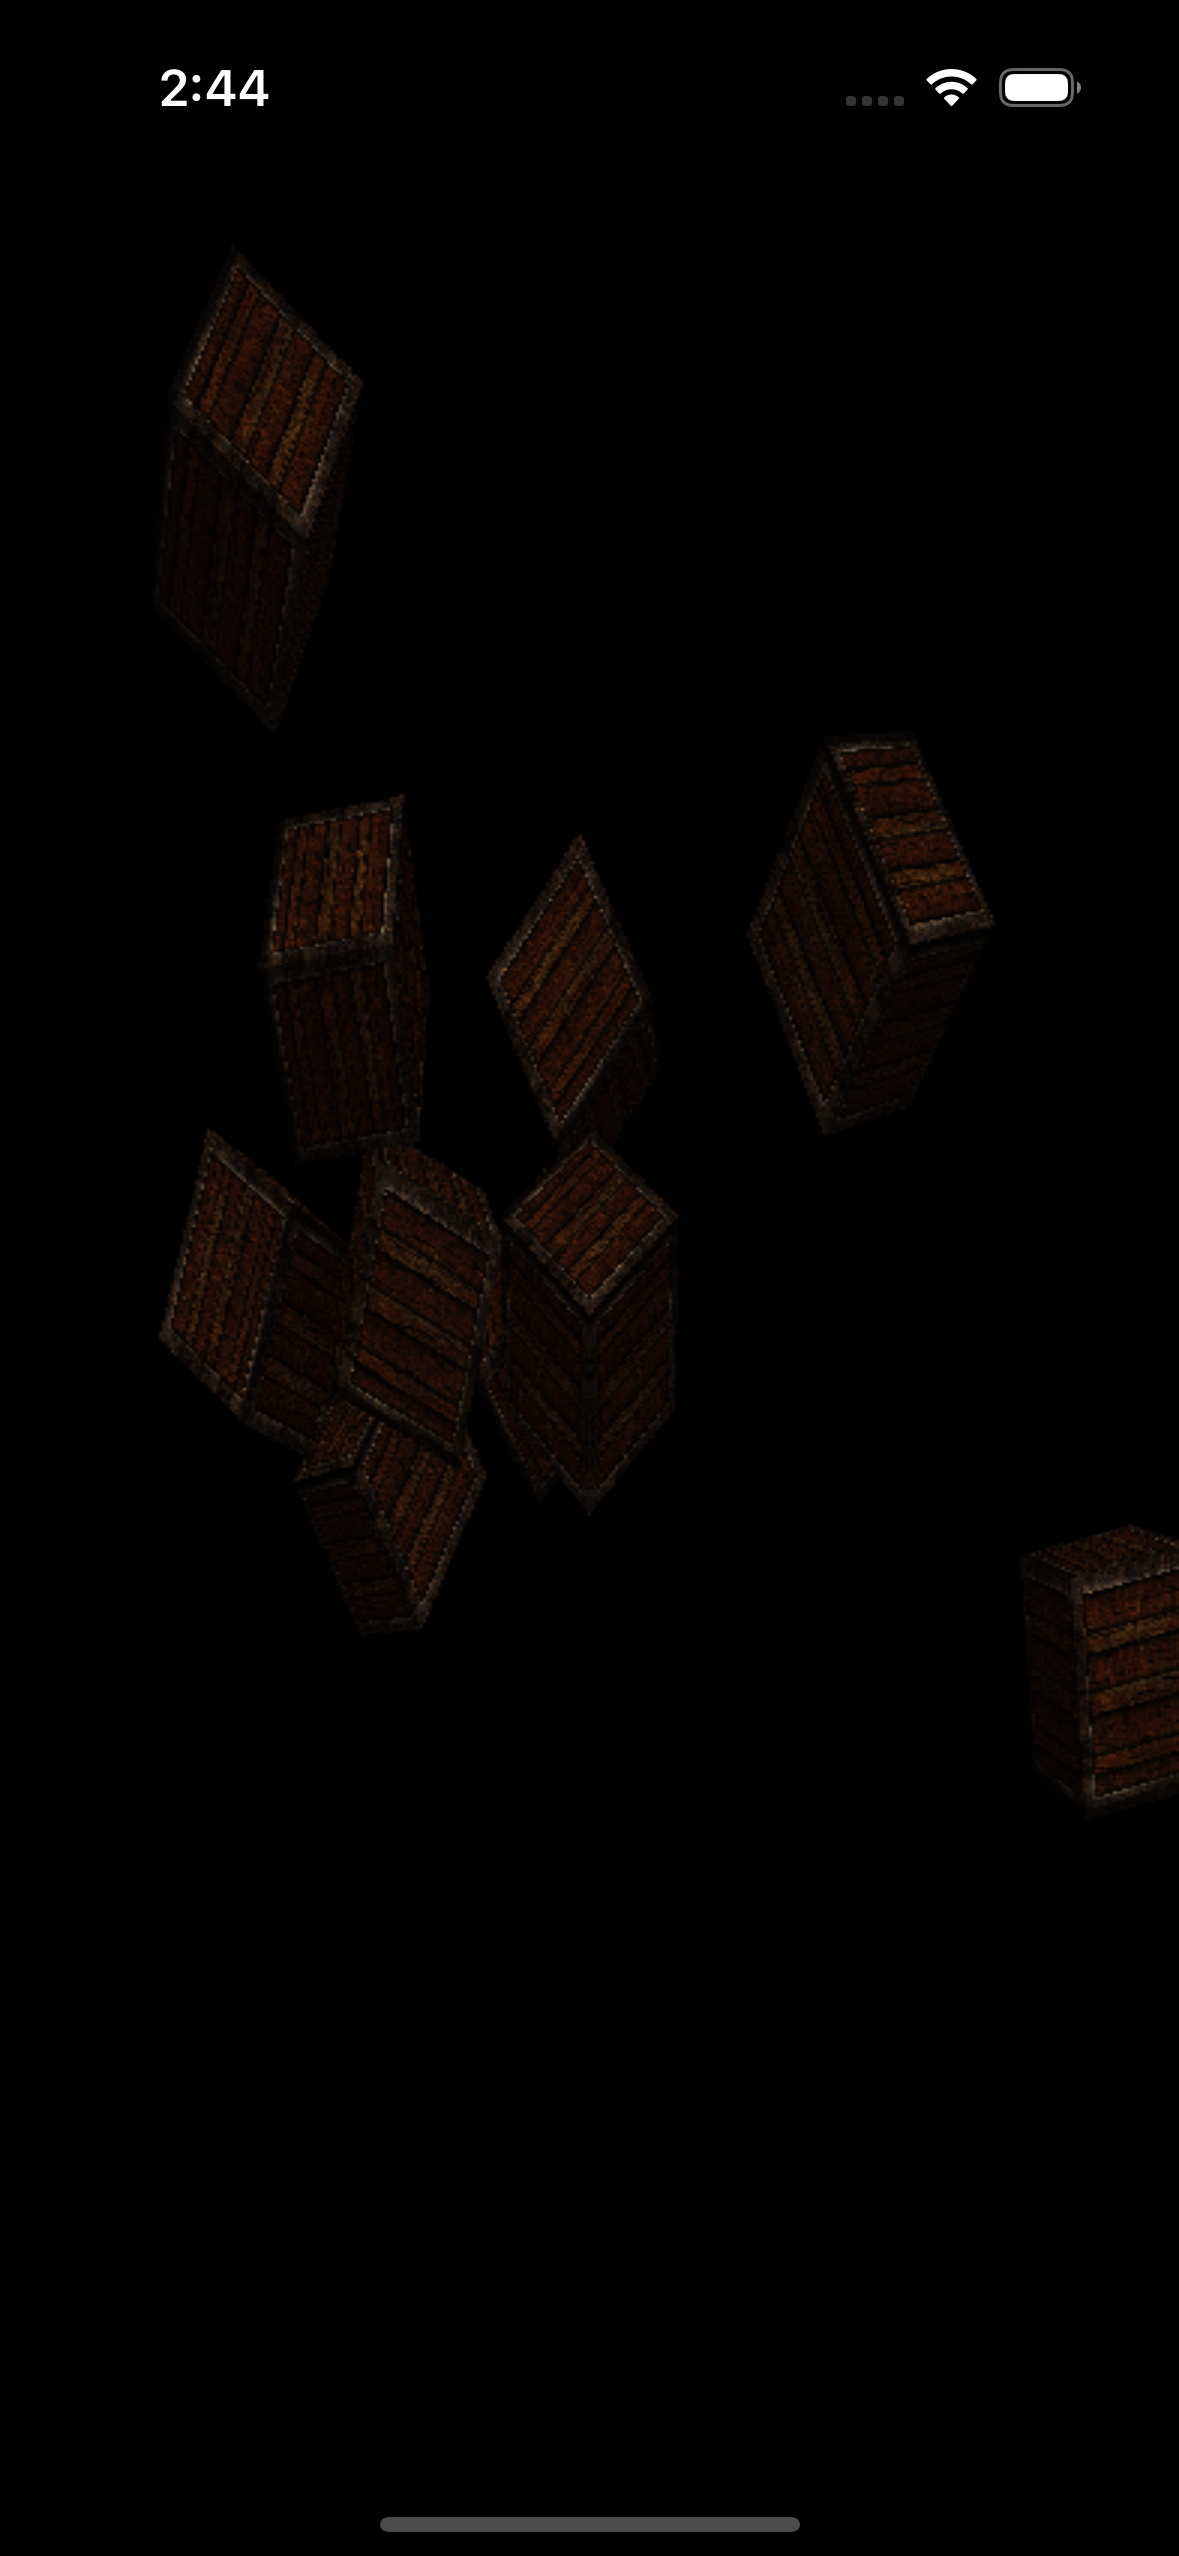
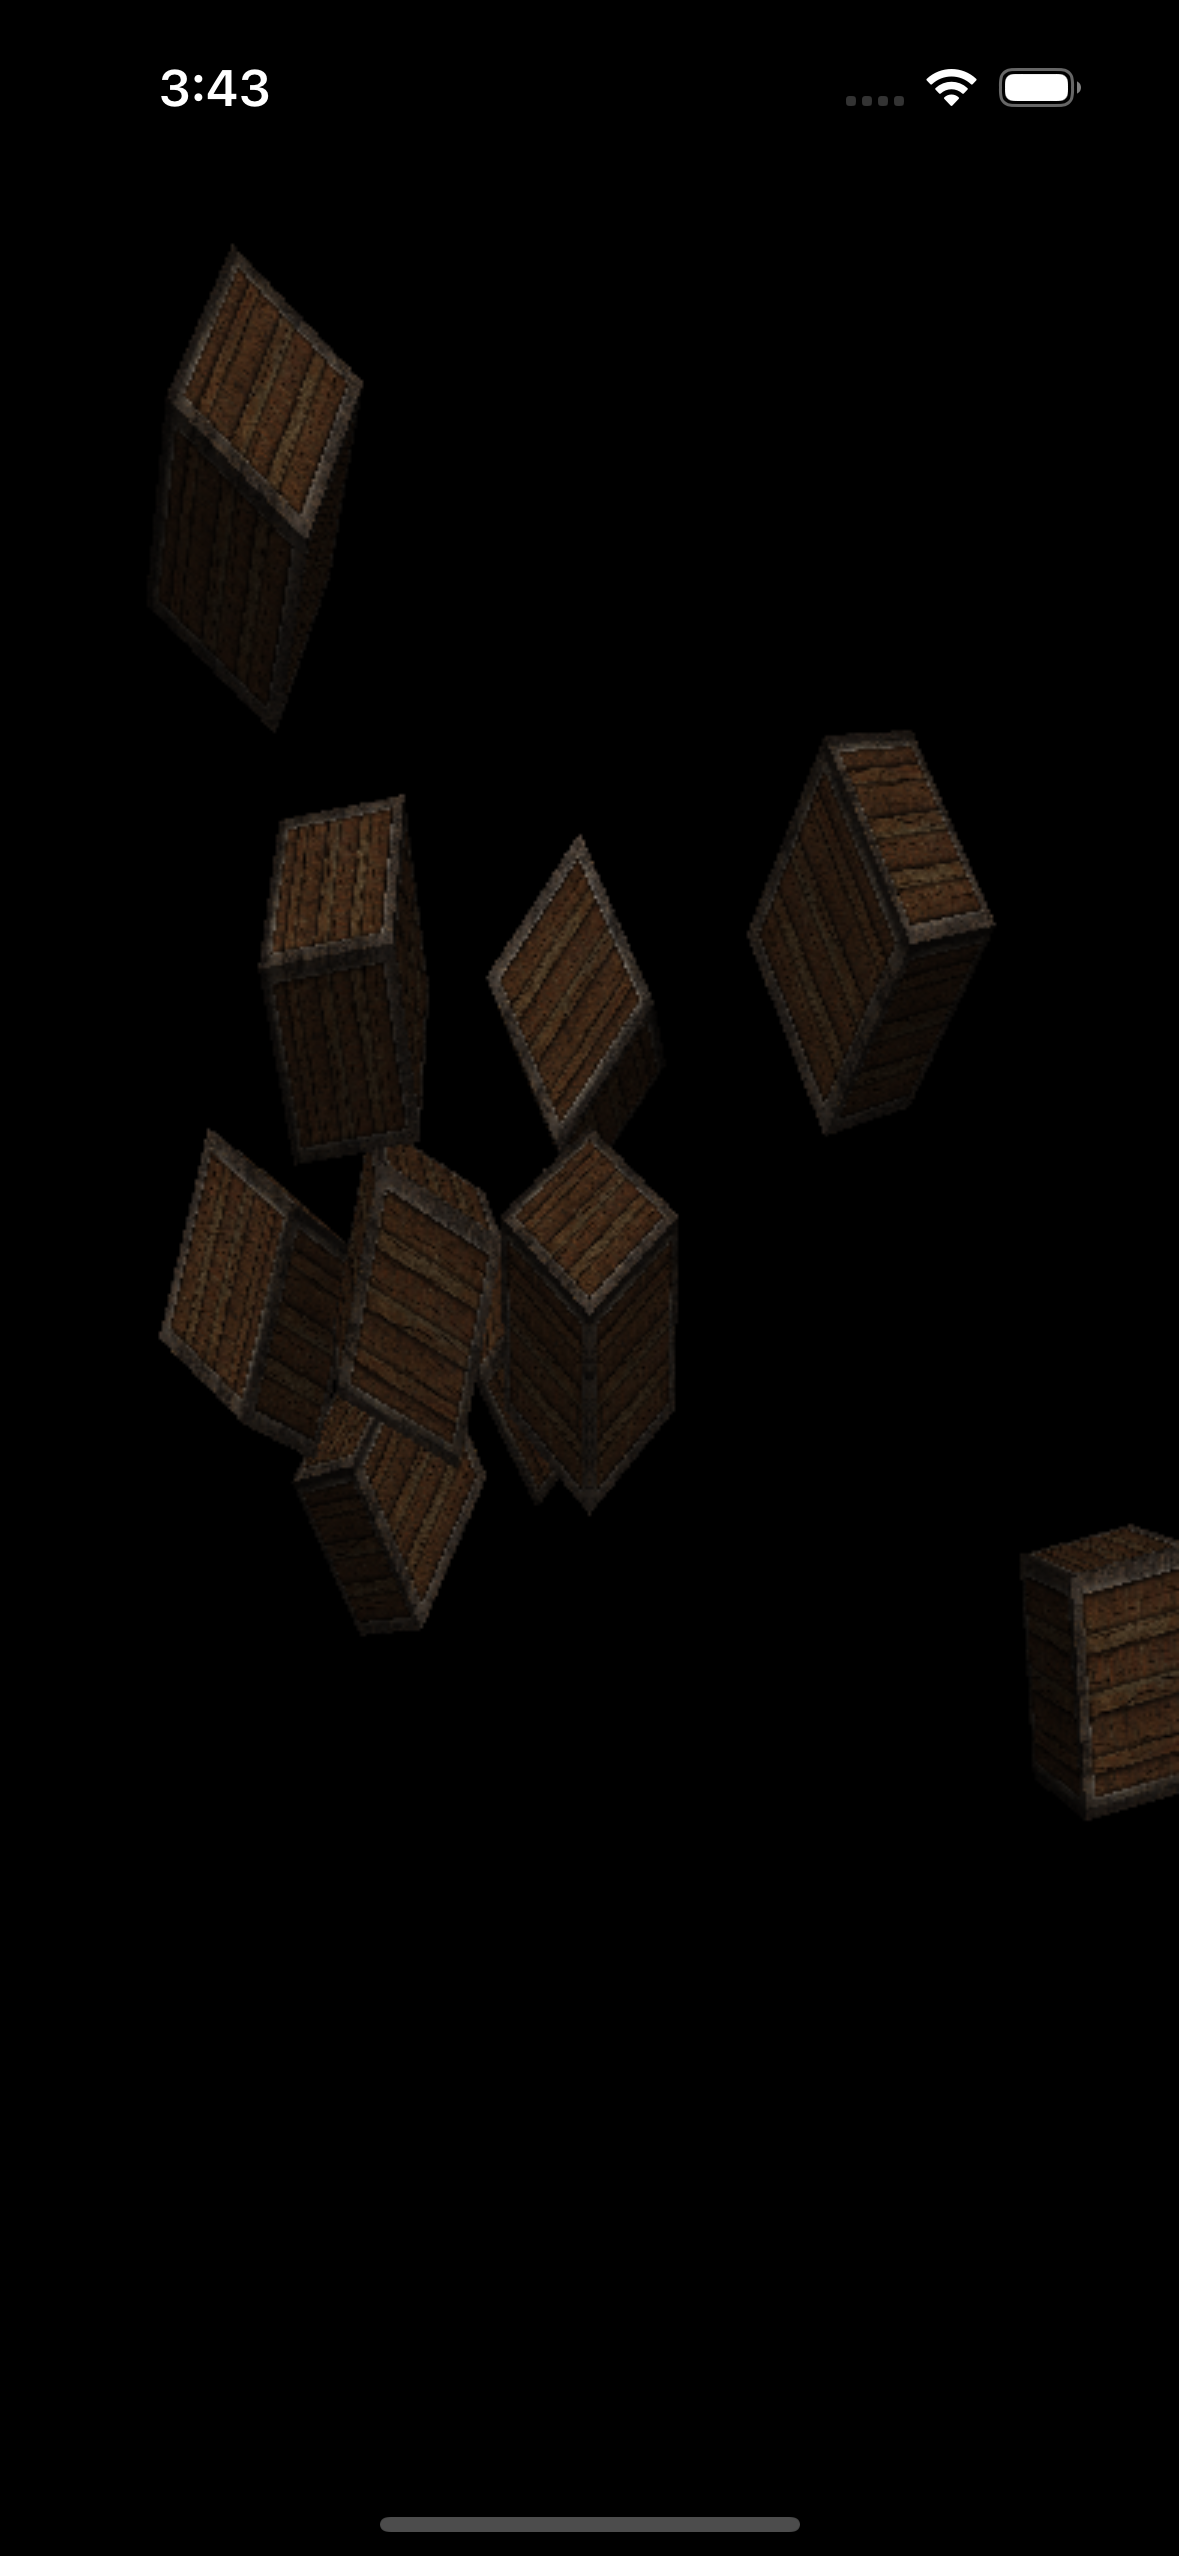
add Light casters

diff --git a/OpenGL-Tutorial-Metal/LightingCasters/LightingCasters/ViewController/RendererViewController+RenderCube.swift b/OpenGL-Tutorial-Metal/LightingCasters/LightingCasters/ViewController/RendererViewController+RenderCube.swift
@@ -13,9 +13,7 @@ extension RendererViewController {
     // MARK: - renderObjectCube
     public func renderObjectCube(renderEncoder: inout MTLRenderCommandEncoder,
                                  indexBuffer: MTLBuffer,
-                                 rotation: simd_float3,
-                                 lightPosition: simd_float3,
-                                 cameraPosition: simd_float3) {
+                                 camera: inout Camera) {
         let projectionMatrix = simd_float4x4.perspective(
             fov: Float(45).toRadians(),
             aspectRatio: 1.0,
@@ -28,21 +26,26 @@ extension RendererViewController {
             var modelMatrix = simd_float4x4.identity()
             
             modelMatrix.translate(position: RendererResources.cubePositions[i])
-            modelMatrix.rotate(angle: Float(20*i), axis: simd_float3(1.0, 0.3, 0.5))
+            modelMatrix.rotate(angle: Float(20 * i), axis: simd_float3(1.0, 0.3, 0.5))
             modelMatrix.scales(scale: simd_float3(1.5, 1.5, 1.5))
             
             var inverseTranspose = modelMatrix.conversion_3x3().inverse.transpose
             
             var uniform = LightUniforms(
-                direction: simd_float3(-0.2, -1.0, -0.3),
-                cameraPosition: cameraPosition,
-                ambient: simd_float3(0.4, 0.4, 0.4),
-                diffuse: simd_float3(1.0, 1.0, 1.0),
-                specular: simd_float3(2.0, 2.0, 2.0)
+                position: simd_float3(1.2, 1.0, 2.0),
+                direction: camera.up,
+                cutOff: simd_float3(Float(12.5).toRadians(), 0.0, 0.0),
+                outerCutOff: simd_float3(Float(17.5).toRadians(), 0.0, 0.0),
+                ambient: simd_float3(0.1, 0.1, 0.1),
+                diffuse: simd_float3(0.8, 0.8, 0.8),
+                specular: simd_float3(1.0, 1.0, 1.0),
+                constants: simd_float3(1.0, 0.0, 0.0),
+                linears: simd_float3(0.09, 0.0, 0.0),
+                quadratics: simd_float3(0.032, 0.0, 0.0)
             )
             
             let viewMatrix = simd_float4x4.lookAt(
-                eyePosition: cameraPosition,
+                eyePosition: camera.position,
                 targetPosition: simd_float3(0.0, 0.0, 0.0),
                 upVec: simd_float3(0.0, 1.0, 0.0)
             )
@@ -54,9 +57,10 @@ extension RendererViewController {
             )
             
             // Fragment
-            renderEncoder.setFragmentBytes(&uniform, length: MemoryLayout<LightUniforms>.size, index: 1)
-            renderEncoder.setFragmentBytes(&transformUniforms, length: MemoryLayout<TransformUniforms>.size, index: 2)
-            
+            renderEncoder.setFragmentBytes(&transformUniforms, length: MemoryLayout<TransformUniforms>.size, index: 1)
+            renderEncoder.setFragmentBytes(&uniform, length: MemoryLayout<LightUniforms>.size, index: 2)
+            renderEncoder.setFragmentBytes(&camera.position, length: MemoryLayout<simd_float3>.size, index: 3)
+
             // Vertex
             renderEncoder.setVertexBytes(&transformUniforms, length: MemoryLayout<TransformUniforms>.size, index: 1)
             renderEncoder.setVertexBytes(&inverseTranspose, length: MemoryLayout<simd_float3x3>.size, index: 2)
@@ -76,8 +80,7 @@ extension RendererViewController {
     // MARK: - renderLightSourceCube
     public func renderLightSourceCube(renderEncoder: inout MTLRenderCommandEncoder,
                                       indexBuffer: MTLBuffer,
-                                      lightPosition: simd_float3,
-                                      cameraPosition: simd_float3) {
+                                      camera: inout Camera) {
         let projectionMatrix = simd_float4x4.perspective(
             fov: Float(30).toRadians(),
             aspectRatio: 1.0,
@@ -85,14 +88,14 @@ extension RendererViewController {
             farPlane: 100.0
         )
         var lightSourceCubeMatrix = simd_float4x4.identity()
-        lightSourceCubeMatrix.translate(position: lightPosition)
+        lightSourceCubeMatrix.translate(position: simd_float3(1.2, 1.0, 2.0))
         lightSourceCubeMatrix.scales(scale: simd_float3(0.3, 0.3, 0.3))
         
         var lightColor = simd_float3(1.0, 1.0, 1.0);
         var inverseTranspose = lightSourceCubeMatrix.conversion_3x3().inverse.transpose
         
         let viewMatrix = simd_float4x4.lookAt(
-            eyePosition: cameraPosition,
+            eyePosition: camera.position,
             targetPosition: simd_float3(0.0, 0.0, 0.0),
             upVec: simd_float3(0.0, 1.0, 0.0)
         )

diff --git a/OpenGL-Tutorial-Metal/LightingCasters/LightingCasters/ViewController/RendererViewController.swift b/OpenGL-Tutorial-Metal/LightingCasters/LightingCasters/ViewController/RendererViewController.swift
@@ -25,9 +25,7 @@ class RendererViewController: UIViewController {
     private var depthStencilState: MTLDepthStencilState!
     private var timer: CADisplayLink!
     
-    private var rotation = simd_float3(0, 0, 0)
-    private var lightPosition = simd_float3(-1.2, 1.0, 1.0)
-    private var cameraPosition = simd_float3(10.0, 10.0, 10.0)
+    private var camera = Camera(position: simd_float3(10.0, 10.0, 10.0))
     
     private var diffuseTexture: MTLTexture!
     private var specularTexture: MTLTexture!
@@ -92,13 +90,13 @@ class RendererViewController: UIViewController {
         do {
             diffuseTexture = try loadTexture("container2")
         } catch {
-            print("텍스처 로드 실패: \(error)")
+            print("container2 텍스처 로드 실패: \(error)")
         }
         
         do {
-            specularTexture = try loadTexture("container2")
+            specularTexture = try loadTexture("container2_specular")
         } catch {
-            print("텍스처 로드 실패: \(error)")
+            print("container2_specular 텍스처 로드 실패: \(error)")
         }
         
         samplerState = setupSampler()
@@ -194,16 +192,13 @@ class RendererViewController: UIViewController {
         
         renderObjectCube(renderEncoder: &renderEncoder,
                          indexBuffer: indexBuffer,
-                         rotation: rotation,
-                         lightPosition: lightPosition,
-                         cameraPosition: cameraPosition)
+                         camera: &camera)
         
-//        renderEncoder.setRenderPipelineState(subPipelineState)
-//        
-//        renderLightSourceCube(renderEncoder: &renderEncoder,
-//                              indexBuffer: indexBuffer,
-//                              lightPosition: lightPosition,
-//                              cameraPosition: cameraPosition)
+        renderEncoder.setRenderPipelineState(subPipelineState)
+        
+        renderLightSourceCube(renderEncoder: &renderEncoder,
+                              indexBuffer: indexBuffer,
+                              camera: &camera)
         
         renderEncoder.endEncoding()
         commandBuffer.present(drawable)
@@ -214,7 +209,6 @@ class RendererViewController: UIViewController {
     // MARK: - gameLoop
     @objc private func gameLoop() {
         autoreleasepool {
-            rotation += simd_float3(Float(1).toRadians(), 0.0, 0.0)
             render()
         }
     } // gameLoop

diff --git a/OpenGL-Tutorial-Metal/LightingCasters/LightingCasters/ViewController/RendererViewController+Textures.swift b/OpenGL-Tutorial-Metal/LightingCasters/LightingCasters/ViewController/RendererViewController+Textures.swift
@@ -5,7 +5,7 @@
 //  Created by KyungHeon Lee on 2025/02/15.
 //
 
-import Foundation
+import UIKit
 import MetalKit
 import simd
 
@@ -27,13 +27,44 @@ extension RendererViewController {
     } // setupSampler
     
     // MARK: - loadTexture
-    public func loadTexture(_ name: String) throws -> MTLTexture {
-        let textureLoader = MTKTextureLoader(device: device)
-        
-        do {
-            return try textureLoader.newTexture(name: name, scaleFactor: 1.0, bundle: nil, options: nil)
-        } catch {
-            fatalError("텍스처 로드 실패: \(error)")
+    public func loadTexture(_ name: String) throws -> MTLTexture? {
+        guard let image = UIImage(named: name)?.cgImage else {
+            print("\(name) 불러올 수 없음")
+            return nil
         }
+        
+        let width = image.width
+        let height = image.height
+        let textureDescriptor = MTLTextureDescriptor()
+        textureDescriptor.pixelFormat = .rgba8Unorm
+        textureDescriptor.width = width
+        textureDescriptor.height = height
+        textureDescriptor.usage = [.shaderRead]
+        
+        guard let texture = device.makeTexture(descriptor: textureDescriptor) else {
+            print("텍스처 생성 실패")
+            return nil
+        }
+        
+        let bytesPerPixel = 4
+        let bytesPerRow = bytesPerPixel * width
+        let imageData = UnsafeMutablePointer<UInt8>.allocate(capacity: bytesPerRow * height)
+        defer { imageData.deallocate() }
+        
+        let colorSpace = CGColorSpaceCreateDeviceRGB()
+        let context = CGContext(data: imageData,
+                                width: width,
+                                height: height,
+                                bitsPerComponent: 8,
+                                bytesPerRow: bytesPerRow,
+                                space: colorSpace,
+                                bitmapInfo: CGImageAlphaInfo.premultipliedLast.rawValue)
+        
+        context?.draw(image, in: CGRect(x: 0, y: 0, width: width, height: height))
+        
+        let region = MTLRegionMake2D(0, 0, width, height)
+        texture.replace(region: region, mipmapLevel: 0, withBytes: imageData, bytesPerRow: bytesPerRow)
+        
+        return texture
     } // loadTexture
 }

diff --git a/OpenGL-Tutorial-Metal/LightingCasters/LightingCasters/Model/Camera.swift b/OpenGL-Tutorial-Metal/LightingCasters/LightingCasters/Model/Camera.swift
@@ -1,0 +1,55 @@
+//
+//  Camera.swift
+//  LightingCasters
+//
+//  Created by KyungHeon Lee on 2025/02/17.
+//
+
+import Foundation
+import simd
+
+// MARK: - Camera
+struct Camera {
+    var position: simd_float3
+    var front: simd_float3
+    var up: simd_float3
+    var right: simd_float3
+    var worldUp: simd_float3
+    var yaw: Float
+    var pitch: Float
+
+    let movementSpeed: Float = 2.5
+    let mouseSensitivity: Float = 0.1
+    let zoom: Float = 45.0
+
+    // init
+    init(position: simd_float3,
+         up: simd_float3 = simd_float3(0, 1, 0),
+         yaw: Float = -90.0,
+         pitch: Float = 0.0) {
+        self.position = position
+        self.worldUp = position + up
+        self.yaw = yaw
+        self.pitch = pitch
+        self.front = simd_float3(0, 0, -1)
+        self.right = simd_float3(1, 0, 0)
+        self.up = position + up
+        
+        updateCameraVectors()
+    }
+
+    // MARK: - updateCameraVectors
+    mutating func updateCameraVectors() {
+        let yawRad = yaw.toRadians()
+        let pitchRad = pitch.toRadians()
+        
+        let frontX = cos(yawRad) * cos(pitchRad)
+        let frontY = sin(pitchRad)
+        let frontZ = sin(yawRad) * cos(pitchRad)
+        
+        front = normalize(simd_float3(frontX, frontY, frontZ))
+        right = normalize(cross(front, worldUp))
+        up = normalize(cross(right, front))
+    } // updateCameraVectors
+    
+} // Camera

diff --git a/OpenGL-Tutorial-Metal/LightingCasters/LightingCasters/Model/Uniform.swift b/OpenGL-Tutorial-Metal/LightingCasters/LightingCasters/Model/Uniform.swift
@@ -24,19 +24,32 @@ struct TransformUniforms {
 
 // MARK: - LightUniforms
 struct LightUniforms {
+    var position: simd_float3
     var direction: simd_float3
-    //var lightPosition: simd_float3
-    var cameraPosition: simd_float3
+    var cutOff: simd_float3
+    var outerCutOff: simd_float3
+    
     var ambient: simd_float3
     var diffuse: simd_float3
     var specular: simd_float3
     
-    init(direction: simd_float3, cameraPosition: simd_float3, ambient: simd_float3, diffuse: simd_float3, specular: simd_float3) {
+    var constants: simd_float3
+    var linears: simd_float3
+    var quadratics: simd_float3
+    
+    init(position: simd_float3, direction: simd_float3, cutOff: simd_float3, outerCutOff: simd_float3,
+         ambient: simd_float3, diffuse: simd_float3, specular: simd_float3,
+         constants: simd_float3, linears: simd_float3, quadratics: simd_float3) {
+        self.position = position
         self.direction = direction
-        self.cameraPosition = cameraPosition
+        self.cutOff = cutOff
+        self.outerCutOff = outerCutOff
         self.ambient = ambient
         self.diffuse = diffuse
         self.specular = specular
+        self.constants = constants
+        self.linears = linears
+        self.quadratics = quadratics
     } // init
     
 } // LightUniforms
